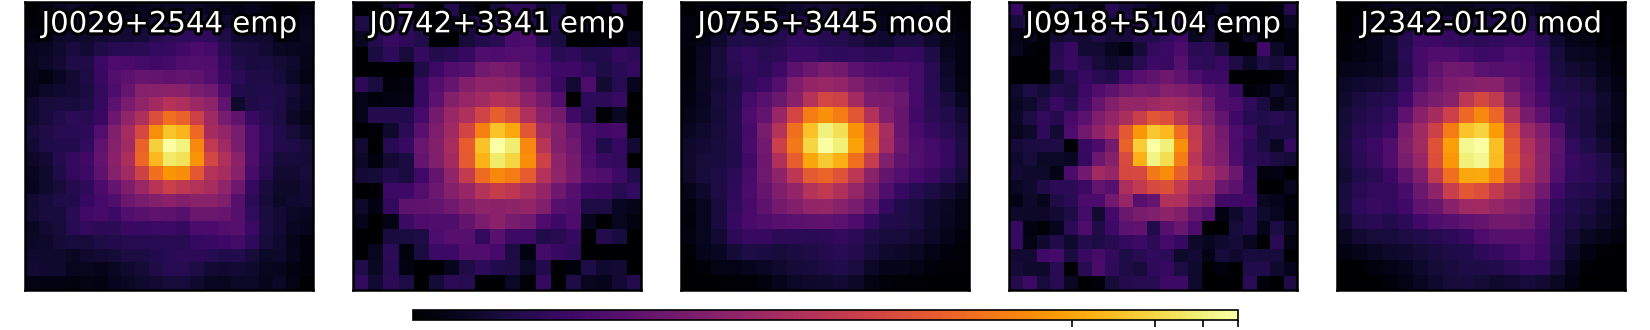
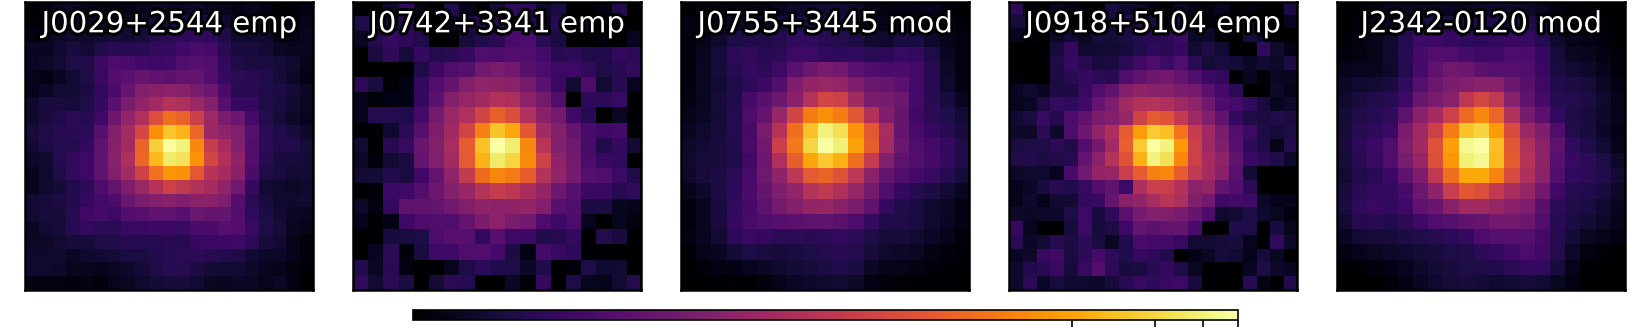
Fix stale CLAUDE.md claims about slacs_other/gallery PSF status; regenerate QC mosaics
CLAUDE.md still said slacs_other/gallery PSF work hadn't been run and that
WFC3/UVIS wasn't wired into make_psf.py -- both were already false (the UVIS
support and gallery PSF builds predate this session) and doubly so after the
run_psf_all.sh campaign just completed for both samples. Regenerates the QC
mosaics (make_mosaics.py, make_psf_mosaics.py) for slacs_other and gallery so
the PNGs reflect the freshly rebuilt cutouts/kernels.

diff --git a/CLAUDE.md b/CLAUDE.md
@@ -841,9 +841,12 @@ North-up. Vet after any no-CR rebuild: more stars can surface a close double / g
 (fixed J1451-0239 f814W double); high-count builds dilute a single bad star, low-count
 (≤~6, e.g. J0029 at 3) ones don't. The gate thresholds (`min_snr=30`, core ≥15× outskirt,
 flux floor 5%, `fwhm_tol_hi=1.4`, `star_size=35` for WFPC2, `pedestal_bad`/`scatter_bad`=3e-3)
-generalised fine — no retune needed. **Not yet run for `slacs_other`** (reduced 2026-07-29, same three
-instruments so `run_psf_all.sh slacs_other` needs no code change) **or `gallery`** (needs
-WFC3/UVIS support in `make_psf.py`/`psf_models.py` first — see *BELLS GALLERY* below). Open
+generalised fine — no retune needed. **Run for `slacs_other` and `gallery` (2026-08-01),
+including the crowding cut / error-map / cutout-QC code below** — `run_psf_all.sh
+slacs_other`/`gallery --all` plus `run_cutouts_all.sh` for both: 33/33 + 25/25 PSF
+products ok (gallery excludes J1110+2808 F814W/F438W, see *BELLS GALLERY*), 33/33 cutouts
+each, 0 failures, no empirical/model method flips vs the pre-existing builds. Crowding cut
+caught one contaminant star each on gallery's J0201+3228 f606W and J0742+3341 f814W. Open
 items:
 - **PSF uncertainty — empirical, ACS focus-diverse, and WFPC2 MAST-DB tiers done; STDPSF
   still genuinely open (no natural ensemble).** The empirical ePSF ships a per-pixel **error
@@ -990,8 +993,10 @@ both F606W and F814W, so `align_wfpc2_to_acs.py` has only tied those three to ab
 astrometry — the other 21 F606W products carry their delivered GSC240 absolute WCS
 (~0.3–1″ off) untied. `info/wfpc2_alignment.json` has no per-lens `--align` audit for
 `slacs_other` (it only covers the 22 `slacs_gold` WFPC2 lenses); every `slacs_other` WFPC2
-lens falls back to the documented default, `mast`. No `lens_psf.json` entries yet — the PSF
-pipeline (`run_psf_all.sh`) has not been run for this sample.
+lens falls back to the documented default, `mast`. `run_psf_all.sh`/`make_psf.py` has been
+run for this sample (2026-08-01): 33/33 PSF products ok, `info/lens_psf.json` populated
+(24 `inject_wfpc2_psfdb` at F606W, 5 empirical + 4 `inject_stdpsf` across F814W/F160W) —
+see *PSF generation* above for the campaign details.
 
 `gallery` coverage (15 lenses, reduced 2026-07-29): **F606W** on all 15 (the primary band),
 **F814W**/**F438W** on 6, **F275W** on 5, **F225W** on 1 (J2342-0120). See *BELLS GALLERY:
@@ -1158,9 +1163,12 @@ the UV filters (see below), and does **not** `rm` the output dir first (unlike
     locks onto noise or a field source, not the lens. Cut with `--center-band f814W`
     (default) so the stamp geometry is at least correct even though nothing but noise
     should be expected there.
-- **No PSF support yet.** `make_psf.py`/`psf_models.py` key off `ACS/WFC`, `WFC3/IR`, and
-  `WFPC2` — WFC3/UVIS isn't wired in, so gallery has no `psf_kernel.fits` /
-  `cutout_[cr_]psf.fits` products and no `info/lens_psf.json` entries.
+- **PSF support: WFC3/UVIS is wired in** (`make_psf.py`/`psf_models.py` key off `ACS/WFC`,
+  `WFC3/IR`, `WFPC2`, and `WFC3/UVIS`), and `run_psf_all.sh gallery` has been run (2026-08-01,
+  excluding J1110+2808's F814W/F438W per the next bullet): 25/25 products ok, 18 empirical +
+  7 `inject_stdpsf` (no exact-filter WFC3/UVIS STDPSF grid substitution issue — UVIS uses the
+  same ACS/WFC3 STDPSF machinery). See *PSF generation* above (F160W hybrid quality gate /
+  `uvis_scatter_gate_validated`) for the empirical/model split rationale.
 - **Per-lens caveat: J1110+2808 is usable only in F606W.** Its F814W/F438W frames run
   ~2× the exposure time of every other gallery lens with those bands (2360–2372s vs
   ~940–1425s elsewhere: 4 frames at 590–602s each vs 3 frames at ~350–475s), and F275W runs
@@ -1210,10 +1218,10 @@ re-drizzled, re-cut, or rebuilt — pure visualization over what's already on di
   'log' wing panel in each lens's `psf.png` — the wings are what QC here is about; passed to
   `make_mosaics.plot_mosaic` via its `norm_fn` hook, which still defaults to pooled asinh for
   the signal/noise mosaics). Each panel tagged `emp` (empirical ePSF) or `mod` (STDPSF /
-  focus-diverse / MAST PSF DB) from the `PSFMETH` keyword. Only `slacs_gold` has PSF
-  products today; `slacs_other`/`gallery` mosaics for the `_psf` panel type will appear
-  once `run_psf_all.sh` is run for those samples (no code change needed for `slacs_other`,
-  same three instruments; `gallery` needs WFC3/UVIS PSF support first).
+  focus-diverse / MAST PSF DB) from the `PSFMETH` keyword. All three samples have PSF
+  products and `_psf`-panel mosaics now; regenerate both mosaic scripts after any PSF
+  campaign (fast, read-only — a few seconds per sample) so the QC PNGs match the kernels
+  currently on disk.
 
 ## NICMOS is deprioritised
 
